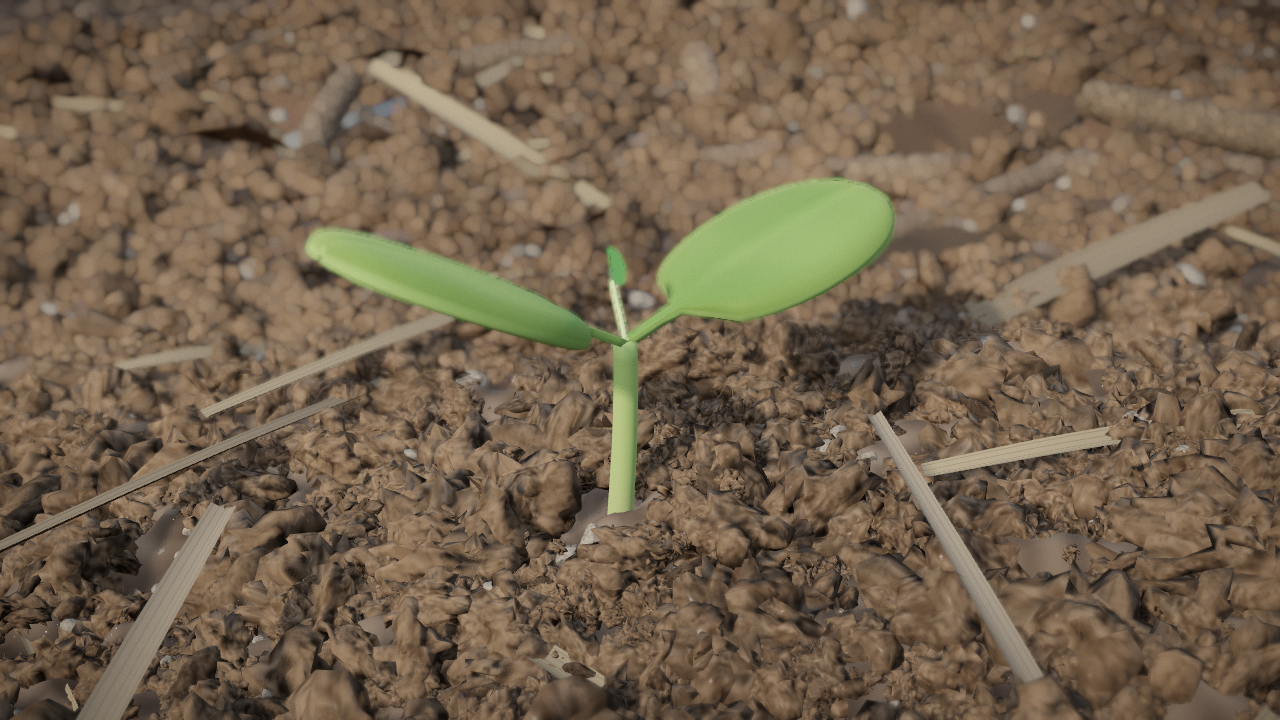
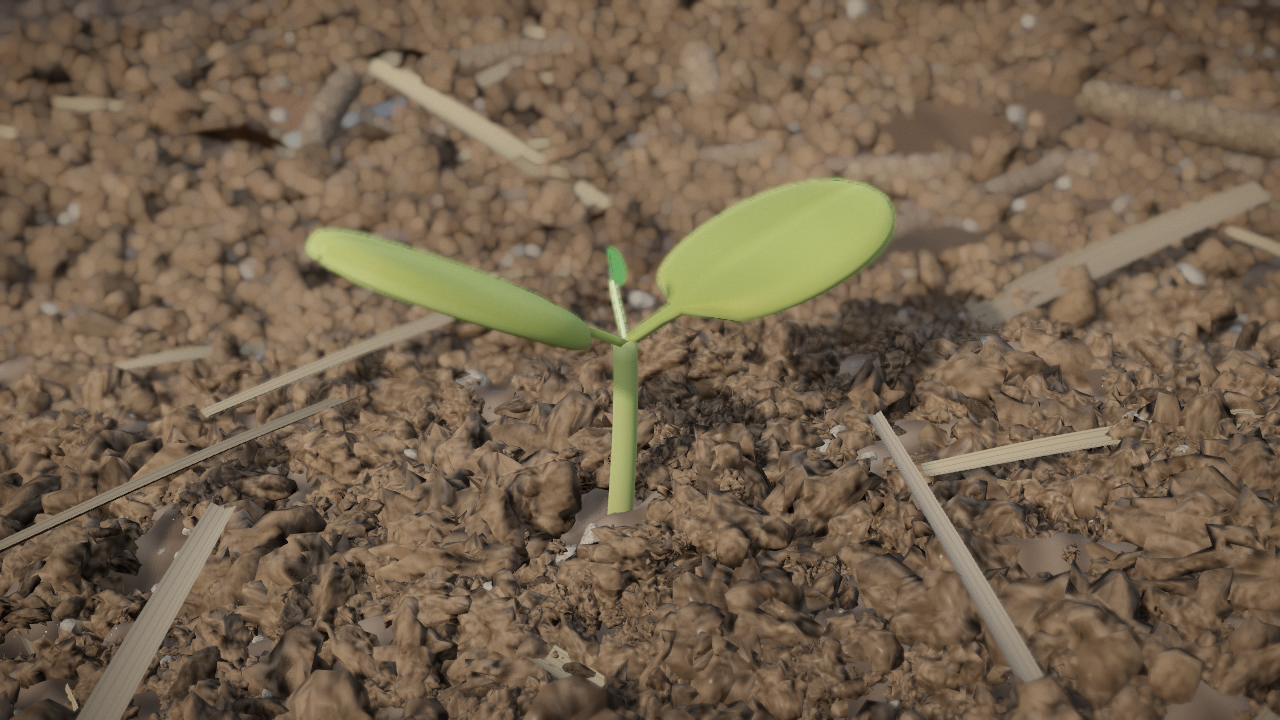
UNDERSOIL: photo-sampled olive colours for cotyledons and stem
Claude-Session: https://claude.ai/code/session_01HXHWaeyj425ipGMnohy3Vo

diff --git a/undersoil/src/game/surface.ts b/undersoil/src/game/surface.ts
@@ -85,11 +85,12 @@ export async function buildSurface(renderer: THREE.WebGPURenderer, base: string,
     const pale = vec3(0.80, 0.76, 0.48), rootCol = vec3(0.88, 0.86, 0.78);
     // 縁はわずかに黄色みを帯び、厚みのせいで少し暗く見える（写真 8615）
     const edge = smoothstep(0.32, 0.5, abs(u2.x.sub(0.5))).add(smoothstep(0.85, 1.0, alongCot)).min(1.0);
-    const cotTop = mix(mix(vec3(0.085, 0.19, 0.035), vec3(0.17, 0.30, 0.075), stipple), vec3(0.15, 0.21, 0.045), edge.mul(0.5));
-    const cotGreen = mix(vec3(0.26, 0.42, 0.14), cotTop, topSide);            // 裏は淡い
+    // 写真から測った色（sRGB #838945・#909E3C・#9BA566）を線形に直した値。緑より黄色みの強い、くすんだオリーブ色
+    const cotTop = mix(mix(vec3(0.15, 0.18, 0.035), vec3(0.24, 0.29, 0.06), stipple), vec3(0.26, 0.28, 0.07), edge.mul(0.55));
+    const cotGreen = mix(vec3(0.30, 0.36, 0.12), cotTop, topSide);            // 裏は淡い
     const midline = oneMinus(smoothstep(0.0, 0.10, abs(u2.x.sub(0.5)))).mul(topSide).mul(smoothstep(0.15, 0.4, alongCot));
     // 胚軸：淡い緑。地ぎわはわずかに赤みを帯びる個体がある（写真1点で確認。弱く入れる）
-    const stemGreen = mix(vec3(0.30, 0.25, 0.14), vec3(0.22, 0.36, 0.10), smoothstep(0.3, 0.75, vc.b));
+    const stemGreen = mix(vec3(0.15, 0.12, 0.03), vec3(0.20, 0.25, 0.07), smoothstep(0.3, 0.75, vc.b));   // 写真の茎 #6B6429 前後
     const green = mix(stemGreen, cotGreen.mul(mix(float(1), float(1.12), midline)), isCot);
     const greening = uGreen.mul(mix(float(0.9), float(1), isCot)).mul(aboveGround);
     const col = mix(mix(pale, green, greening), rootCol, isRoot);
